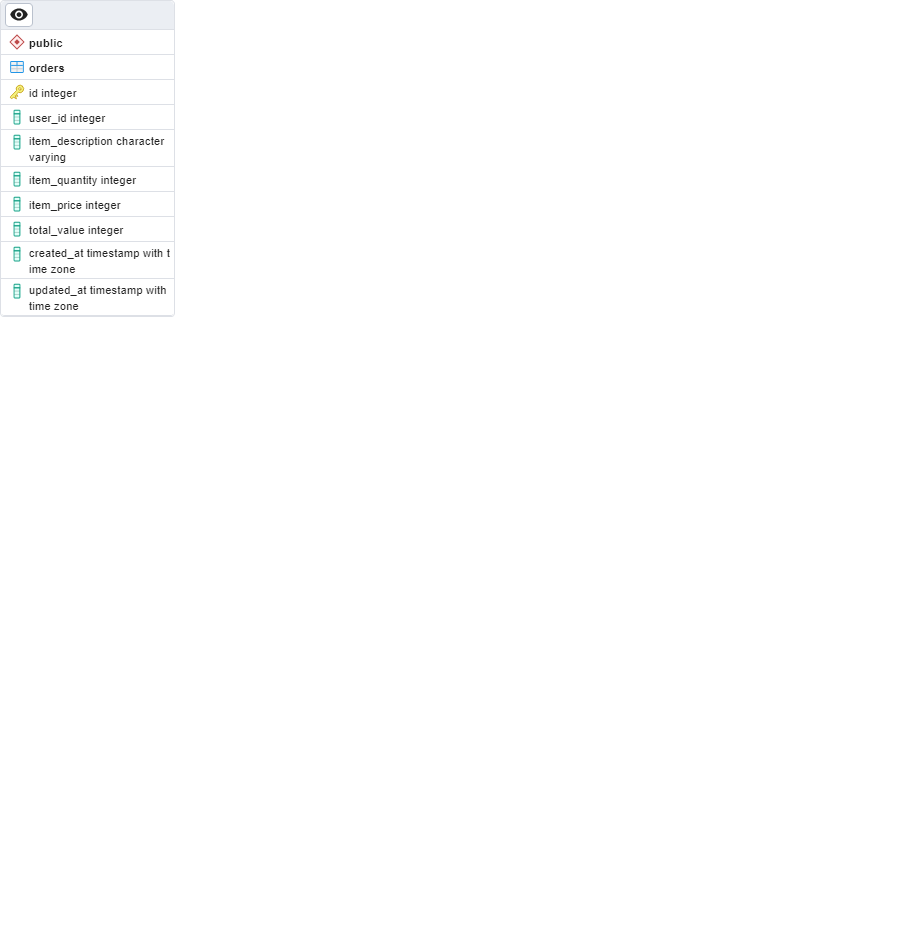
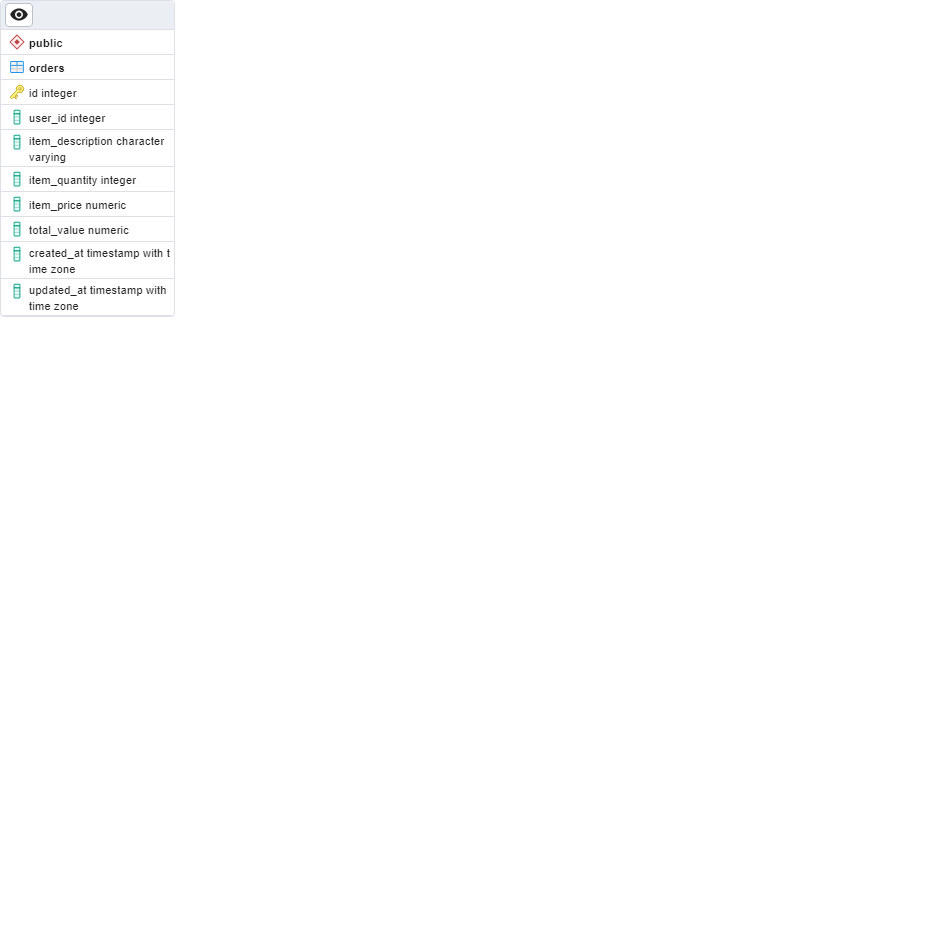
fix: orders types were wrong in order-api

Changed region(s): [[0.0304, 0.0307, 0.1824, 0.3376]]

diff --git a/order-api/alembic/versions/b07af5c16ab0_create_orders_table.py b/order-api/alembic/versions/b07af5c16ab0_create_orders_table.py
@@ -1,16 +1,16 @@
 """create_orders_table
 
-Revision ID: b9fb2eed08d0
-Revises:
-Create Date: 2023-06-29 23:10:29.486954
+Revision ID: b07af5c16ab0
+Revises: 
+Create Date: 2023-07-01 16:50:28.440334
 
 """
+from alembic import op
 import sqlalchemy as sa
 
-from alembic import op
 
 # revision identifiers, used by Alembic.
-revision = 'b9fb2eed08d0'
+revision = 'b07af5c16ab0'
 down_revision = None
 branch_labels = None
 depends_on = None
@@ -23,8 +23,8 @@ def upgrade() -> None:
     sa.Column('user_id', sa.Integer(), nullable=False),
     sa.Column('item_description', sa.String(), nullable=False),
     sa.Column('item_quantity', sa.Integer(), nullable=False),
-    sa.Column('item_price', sa.Integer(), nullable=False),
-    sa.Column('total_value', sa.Integer(), nullable=False),
+    sa.Column('item_price', sa.Numeric(), nullable=False),
+    sa.Column('total_value', sa.Numeric(), nullable=False),
     sa.Column('created_at', sa.DateTime(timezone=True), server_default=sa.text('now()'), nullable=False),
     sa.Column('updated_at', sa.DateTime(timezone=True), nullable=True),
     sa.PrimaryKeyConstraint('id')

diff --git a/order-api/app/orders/models.py b/order-api/app/orders/models.py
@@ -1,3 +1,4 @@
+from decimal import Decimal
 from sqlalchemy import DateTime
 from sqlalchemy.orm import Mapped, mapped_column
 from sqlalchemy.sql import func
@@ -12,8 +13,8 @@ class Order(Base):
     user_id: Mapped[int]
     item_description: Mapped[str]
     item_quantity: Mapped[int]
-    item_price: Mapped[int]
-    total_value: Mapped[int]
+    item_price: Mapped[Decimal]
+    total_value: Mapped[Decimal]
     created_at: Mapped[DateTime] = mapped_column(
         DateTime(timezone=True), server_default=func.now()
     )
